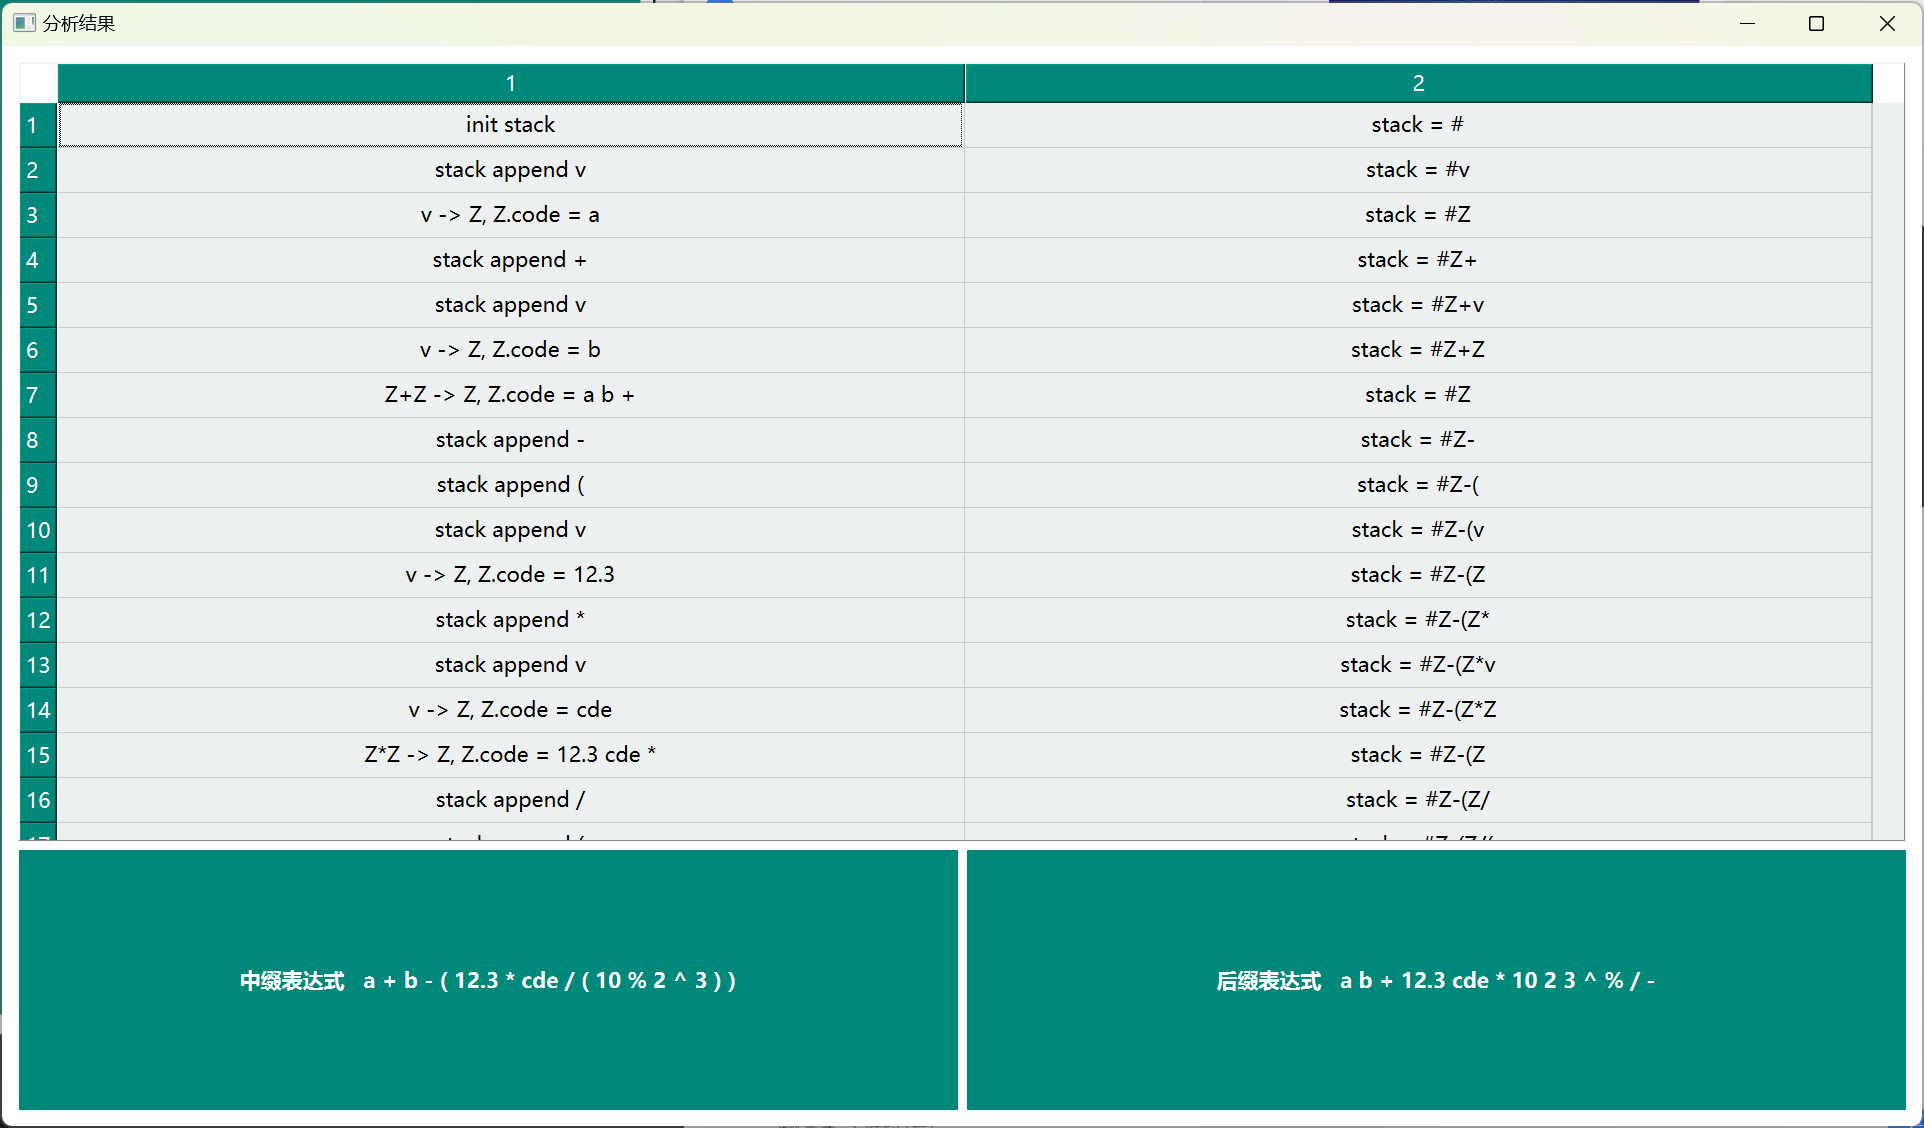
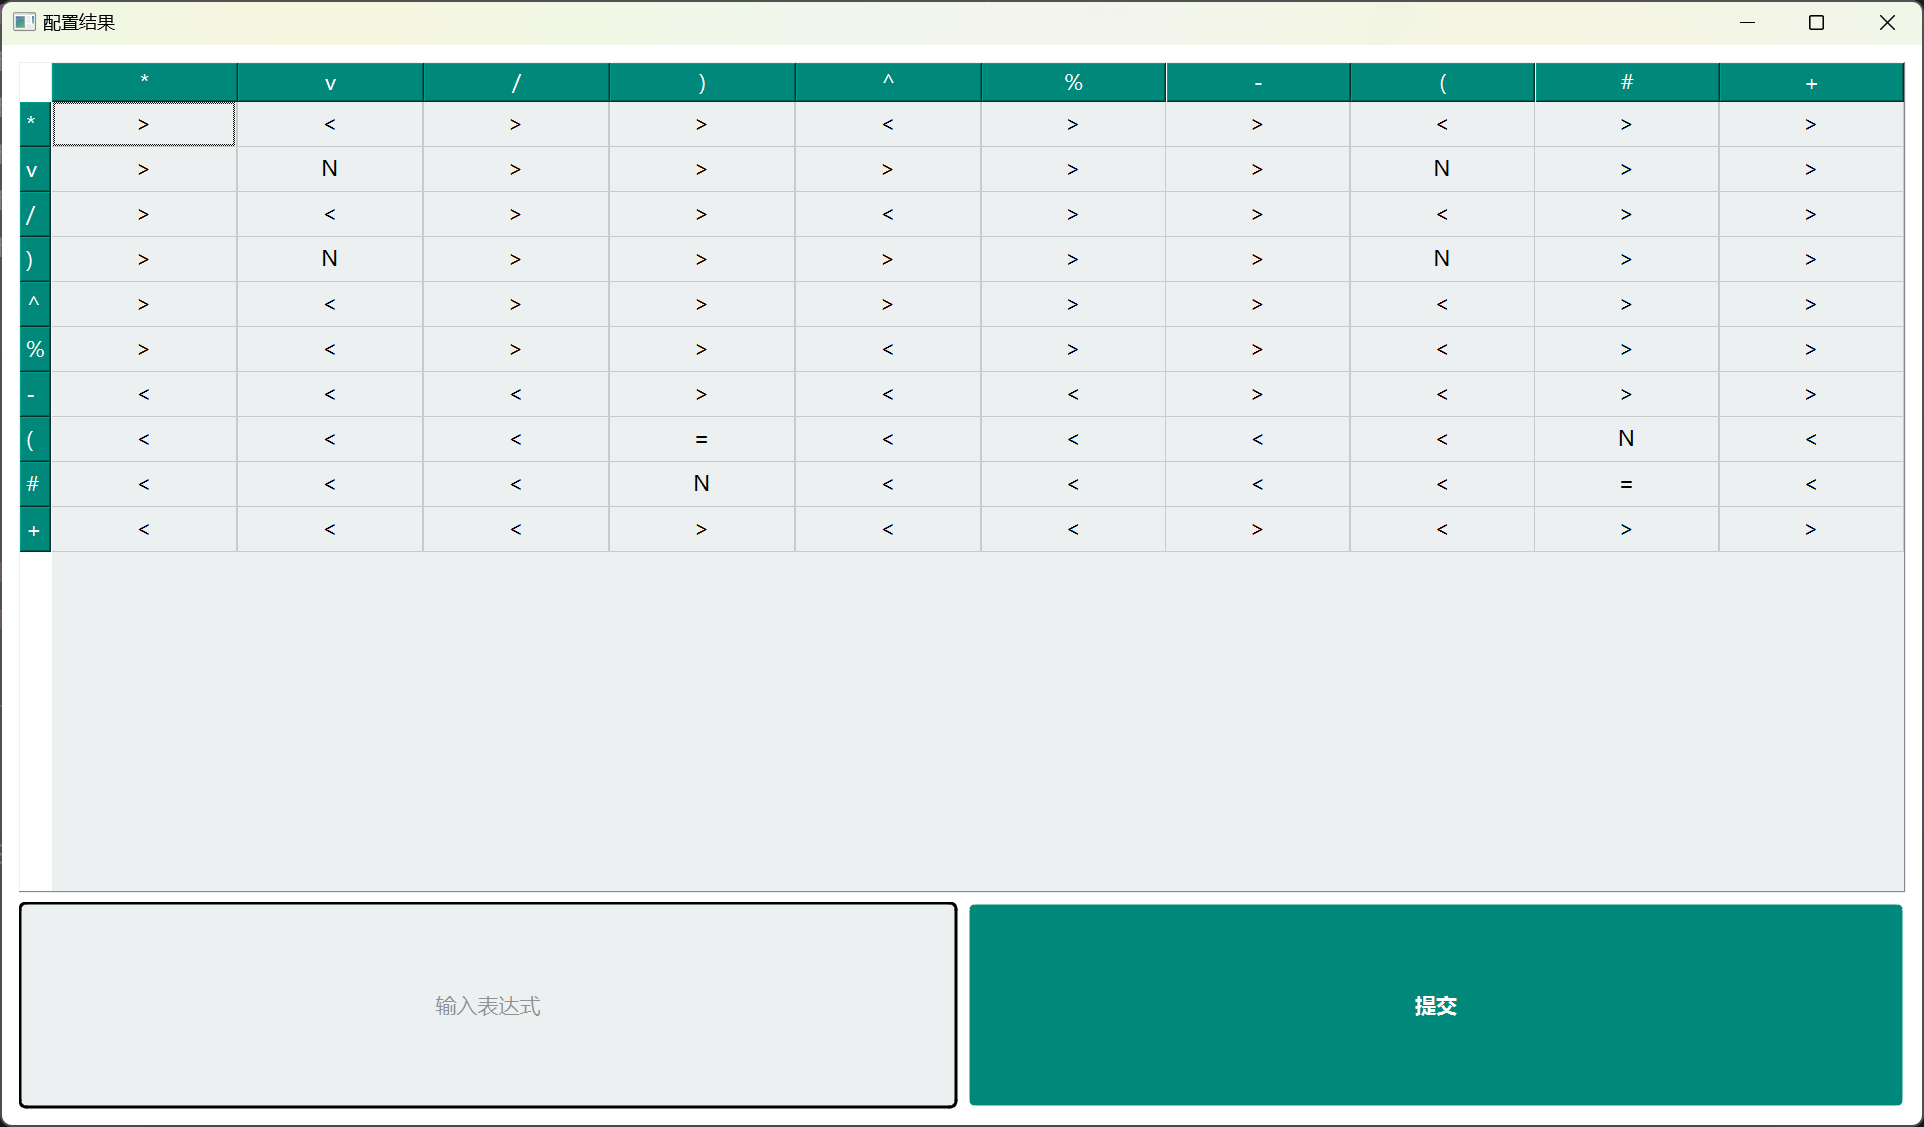
Init

diff --git a/InfixToPostfix/ui.py b/InfixToPostfix/ui.py
@@ -5,76 +5,153 @@ from PyQt6.QtWidgets import QWidget, QGridLayout, QPushButton, QLineEdit, QFileD
 
 from InfixToPostfix.infix_to_postfix import InfixToPostfix
 
+STYLE_QSS_PATH = os.path.join(os.path.dirname(__file__), "data/style.qss")
+
 
 class MainWindow(QWidget):
-    STYLE_QSS_PATH = os.path.join(os.path.dirname(__file__), "data/style.qss")
 
     def __init__(self):
+
         super().__init__()
+
         self.setWindowTitle("后缀表达式生成器")
-        self.setStyleSheet(open(MainWindow.STYLE_QSS_PATH).read())
+        self.setStyleSheet(open(STYLE_QSS_PATH).read())
         self.resize(1280, 720)
         self.conf = ""
+
         self.file_chooser = QPushButton("选取配置文件")
         self.file_chooser.setSizePolicy(QtWidgets.QSizePolicy.Policy.Expanding, QtWidgets.QSizePolicy.Policy.Expanding)
-        self.expression = QLineEdit()
-        self.expression.setPlaceholderText("输入表达式")
-        self.expression.setAlignment(QtCore.Qt.AlignmentFlag.AlignCenter)
-        self.expression.setSizePolicy(QtWidgets.QSizePolicy.Policy.Expanding, QtWidgets.QSizePolicy.Policy.Expanding)
-        self.data_process = QPushButton("提交")
-        self.data_process.setSizePolicy(QtWidgets.QSizePolicy.Policy.Expanding, QtWidgets.QSizePolicy.Policy.Expanding)
-        self.child_window = QWidget()
-        self.child_window.setStyleSheet(open(MainWindow.STYLE_QSS_PATH).read())
-        self.child_window.setWindowTitle("分析结果")
-        self.child_window.resize(1280, 720)
+        self.file_chooser.clicked.connect(self.file_chooser_connect)
+
+        self.conf_process = QPushButton("分析")
+        self.conf_process.setSizePolicy(QtWidgets.QSizePolicy.Policy.Expanding, QtWidgets.QSizePolicy.Policy.Expanding)
+        self.conf_process.clicked.connect(self.conf_process_connect)
+
         self.init_layout()
+
+        # 配置 conf_window 和 result_window
+        self.conf_window = self.init_conf_window()
+        self.result_window = self.init_result_window()
+
+        self.data = InfixToPostfix()
+
         self.show()
 
     def init_layout(self):
-        def file_chooser_connect():
-            self.conf = QFileDialog().getOpenFileName(self, "选取配置文件", "./", "All Files (*)")[0]
-            self.file_chooser.setText(self.conf)
-
-        def data_process_connect():
-            data = InfixToPostfix() if self.conf == "" else InfixToPostfix(self.conf)
-            words, actions, states, result = data.analyze(self.expression.text())
-
-            child_layout = QGridLayout()
-
-            analyze_result = QTableWidget(len(actions), 2)
-            analyze_result.setVerticalScrollBarPolicy(QtCore.Qt.ScrollBarPolicy.ScrollBarAlwaysOff)
-            analyze_result.setHorizontalScrollBarPolicy(QtCore.Qt.ScrollBarPolicy.ScrollBarAlwaysOff)
-            analyze_result.setEditTriggers(QtWidgets.QAbstractItemView.EditTrigger.NoEditTriggers)
-            for i, action, state in zip(range(len(actions)), actions, states):
-                item_0 = QtWidgets.QTableWidgetItem(action)
-                item_1 = QtWidgets.QTableWidgetItem(state)
-                item_0.setTextAlignment(QtCore.Qt.AlignmentFlag.AlignCenter)
-                item_1.setTextAlignment(QtCore.Qt.AlignmentFlag.AlignCenter)
-                analyze_result.setItem(i, 0, item_0)
-                analyze_result.setItem(i, 1, item_1)
-            analyze_result.setColumnWidth(0, 605)
-            analyze_result.setColumnWidth(1, 605)
-
-            raw = QLabel(f"中缀表达式   {' '.join([word[1] for word in words])}")
-            raw.setAlignment(QtCore.Qt.AlignmentFlag.AlignCenter)
-
-            result = QLabel(f"后缀表达式   {' '.join(result)}")
-            result.setAlignment(QtCore.Qt.AlignmentFlag.AlignCenter)
-
-            child_layout.addWidget(analyze_result, 0, 0, 3, 2)
-            child_layout.addWidget(raw, 3, 0, 1, 1)
-            child_layout.addWidget(result, 3, 1, 1, 1)
-
-            self.child_window.setLayout(child_layout)
-            self.child_window.show()
 
         grid = QGridLayout()
 
-        self.file_chooser.clicked.connect(file_chooser_connect)
-        self.data_process.clicked.connect(data_process_connect)
+        grid.addWidget(self.file_chooser, 0, 0, 1, 1)
+        grid.addWidget(self.conf_process, 0, 1, 1, 1)
 
-        grid.addWidget(self.file_chooser, 0, 0, 2, 1)
-        grid.addWidget(self.expression, 0, 1, 1, 1)
-        grid.addWidget(self.data_process, 1, 1, 1, 1)
+        self.setLayout(grid)
 
+    def init_conf_window(self):
+        conf_result = QTableWidget()
+        conf_result.setVerticalScrollBarPolicy(QtCore.Qt.ScrollBarPolicy.ScrollBarAlwaysOff)
+        conf_result.setHorizontalScrollBarPolicy(QtCore.Qt.ScrollBarPolicy.ScrollBarAlwaysOff)
+        conf_result.setEditTriggers(QtWidgets.QAbstractItemView.EditTrigger.NoEditTriggers)
+        conf_result.horizontalHeader().setSectionResizeMode(QtWidgets.QHeaderView.ResizeMode.Stretch)
+
+        expression = QLineEdit()
+        expression.setPlaceholderText("输入表达式")
+        expression.setAlignment(QtCore.Qt.AlignmentFlag.AlignCenter)
+        expression.setSizePolicy(QtWidgets.QSizePolicy.Policy.Expanding, QtWidgets.QSizePolicy.Policy.Expanding)
+
+        analyze_process = QPushButton("提交")
+        analyze_process.clicked.connect(lambda: self.analyze_process_connect(expression.text()))
+        analyze_process.setSizePolicy(QtWidgets.QSizePolicy.Policy.Expanding, QtWidgets.QSizePolicy.Policy.Expanding)
+
+        return ChildWindow("配置结果", conf_result, expression, analyze_process)
+
+    def init_result_window(self):
+        analyze_result = QTableWidget()
+        analyze_result.setVerticalScrollBarPolicy(QtCore.Qt.ScrollBarPolicy.ScrollBarAlwaysOff)
+        analyze_result.setHorizontalScrollBarPolicy(QtCore.Qt.ScrollBarPolicy.ScrollBarAlwaysOff)
+        analyze_result.setEditTriggers(QtWidgets.QAbstractItemView.EditTrigger.NoEditTriggers)
+        analyze_result.horizontalHeader().setSectionResizeMode(QtWidgets.QHeaderView.ResizeMode.Stretch)
+
+        raw = QLabel(f"中缀表达式")
+        raw.setAlignment(QtCore.Qt.AlignmentFlag.AlignCenter)
+        raw.setSizePolicy(QtWidgets.QSizePolicy.Policy.Expanding, QtWidgets.QSizePolicy.Policy.Expanding)
+
+        now = QLabel(f"后缀表达式")
+        now.setAlignment(QtCore.Qt.AlignmentFlag.AlignCenter)
+        now.setSizePolicy(QtWidgets.QSizePolicy.Policy.Expanding, QtWidgets.QSizePolicy.Policy.Expanding)
+
+        return ChildWindow("分析结果", analyze_result, raw, now)
+
+    def file_chooser_connect(self):
+        self.conf = QFileDialog().getOpenFileName(self, "选取配置文件", "./", "All Files (*)")[0]
+        self.file_chooser.setText(self.conf)
+
+    def conf_process_connect(self):
+        self.data = InfixToPostfix() if self.conf == "" else InfixToPostfix(self.conf)
+        priority_table = self.data.priority_table
+
+        # 更新 conf_window
+        length = len(priority_table.keys())
+        self.conf_window.widget1.setRowCount(length)
+        self.conf_window.widget1.setColumnCount(length)
+        row_headers = list(priority_table.keys())
+        column_headers = list(priority_table[row_headers[0]].keys())
+        self.conf_window.widget1.setVerticalHeaderLabels(row_headers)
+        self.conf_window.widget1.setHorizontalHeaderLabels(column_headers)
+        conf_result = self.conf_window.widget1
+        conf_result.setSizePolicy(QtWidgets.QSizePolicy.Policy.Expanding, QtWidgets.QSizePolicy.Policy.Expanding)
+        conf_result.setVerticalScrollBarPolicy(QtCore.Qt.ScrollBarPolicy.ScrollBarAlwaysOff)
+        conf_result.setHorizontalScrollBarPolicy(QtCore.Qt.ScrollBarPolicy.ScrollBarAlwaysOff)
+        conf_result.setEditTriggers(QtWidgets.QAbstractItemView.EditTrigger.NoEditTriggers)
+        for i, key_left in enumerate(priority_table.keys()):
+            for j, key_right in enumerate(priority_table[key_left].keys()):
+                item = QtWidgets.QTableWidgetItem(priority_table[key_left][key_right])
+                item.setTextAlignment(QtCore.Qt.AlignmentFlag.AlignCenter)
+                conf_result.setItem(i, j, item)
+
+        self.conf_window.widget2.setText("")
+        self.conf_window.show()
+
+    def analyze_process_connect(self, expression):
+        result, words, actions, stack_states, words_states = self.data.analyze(expression)
+
+        # 更新 result_window
+        self.result_window.widget1.setRowCount(len(actions))
+        self.result_window.widget1.setColumnCount(3)
+        analyze_result = self.result_window.widget1
+        for i, action, stack_state, words_state in zip(range(len(actions)), actions, stack_states, words_states):
+            item0, item1, item2 = QtWidgets.QTableWidgetItem(action), QtWidgets.QTableWidgetItem(stack_state), QtWidgets.QTableWidgetItem(words_state)
+            item0.setTextAlignment(QtCore.Qt.AlignmentFlag.AlignCenter)
+            item1.setTextAlignment(QtCore.Qt.AlignmentFlag.AlignCenter)
+            item2.setTextAlignment(QtCore.Qt.AlignmentFlag.AlignCenter)
+            analyze_result.setItem(i, 0, item0)
+            analyze_result.setItem(i, 1, item1)
+            analyze_result.setItem(i, 2, item2)
+
+        self.result_window.widget2.setText(f"中缀表达式   {' '.join([word[1] for word in words])}")
+        self.result_window.widget3.setText(f"后缀表达式   {' '.join(result)}")
+
+        self.result_window.show()
+
+
+class ChildWindow(QWidget):
+
+    def __init__(self, title, widget1, widget2, widget3):
+        super().__init__()
+        self.setStyleSheet(open(STYLE_QSS_PATH).read())
+        self.setWindowTitle(title)
+        self.resize(1280, 720)
+        self.widget1 = widget1
+        self.widget2 = widget2
+        self.widget3 = widget3
+        self.init_layout()
+
+    def init_layout(self):
+        grid = QGridLayout()
+        grid.addWidget(self.widget1, 0, 0, 4, 2)
+        grid.addWidget(self.widget2, 4, 0)
+        grid.addWidget(self.widget3, 4, 1)
+        for i in range(grid.rowCount()):
+            grid.setRowStretch(i, 1)
+        for i in range(grid.columnCount()):
+            grid.setRowStretch(i, 1)
         self.setLayout(grid)

diff --git a/InfixToPostfix/infix_to_postfix.py b/InfixToPostfix/infix_to_postfix.py
@@ -25,7 +25,7 @@ class InfixToPostfix:
         self.non_ters = self.non_ters()
         self.ters = self.ters()
         self.ops = self.ops()
-        self.first_vts, self.follow_vts = self.first_and_follow_vts()
+        self.first_vts, self.follow_vts = self.first_and_last_vts()
         self.priority_table = self.priority_table()
 
     def fixed(self):
@@ -47,32 +47,32 @@ class InfixToPostfix:
     def ops(self):
         return [ter for ter in self.ters if ter != "v"]
 
-    def first_and_follow_vts(self):
+    def first_and_last_vts(self):
         """
-        生成 first_vts 和 follow_vts
+        生成 first_vts 和 last_vts
         """
 
-        def first_or_follow_vt(non_ter, finished, vt_dict, pattern):
-            if non_ter not in finished:
+        def first_or_last_vt(non_ter, waited, vt_dict, pattern):
+            if non_ter not in waited:
+                waited.add(non_ter)
                 for candidate in self.grammar_fixed[non_ter]:
                     tmp = candidate[0] if pattern == "first" else candidate[-1]
                     if tmp in self.ters:
                         vt_dict[non_ter].add(tmp)
                     elif tmp in self.non_ters:
-                        if tmp != non_ter:
-                            first_or_follow_vt(tmp, finished, vt_dict, pattern)
+                        if tmp not in waited:
+                            first_or_last_vt(tmp, waited, vt_dict, pattern)
                             vt_dict[non_ter].update(vt_dict[tmp])
                         if (pattern == "first") and (len(candidate) > 1) and (candidate[1] in self.ters):
-                            vt_dict[non_ter].update({candidate[1]})
-                        elif (pattern == "follow") and (len(candidate) > 1) and (candidate[-2] in self.ters):
-                            vt_dict[non_ter].update({candidate[-2]})
-                finished.add(non_ter)
+                            vt_dict[non_ter].add(candidate[1])
+                        elif (pattern == "last") and (len(candidate) > 1) and (candidate[-2] in self.ters):
+                            vt_dict[non_ter].add(candidate[-2])
 
-        first_vts, follow_vts = {non_ter: set() for non_ter in self.non_ters}, {non_ter: set() for non_ter in self.non_ters}
+        first_vts, last_vts = {non_ter: set() for non_ter in self.non_ters}, {non_ter: set() for non_ter in self.non_ters}
         for non_ter in self.non_ters:
-            first_or_follow_vt(non_ter, set(), first_vts, "first")
-            first_or_follow_vt(non_ter, set(), follow_vts, "follow")
-        return first_vts, follow_vts
+            first_or_last_vt(non_ter, set(), first_vts, "first")
+            first_or_last_vt(non_ter, set(), last_vts, "last")
+        return first_vts, last_vts
 
     def priority_table(self):
         """
@@ -131,26 +131,26 @@ class InfixToPostfix:
                     index = end
             return expression_split
 
-        stack = [("#", ["#"])]
-        words = split(expression)
-        words.append(("#", "#"))
-        actions, states = ["init stack"], ["stack = #"]
+        actions, stack, words, stack_states = ["init stack"], [("#", ["#"])], split(expression) + [("#", "#")], ["#"]
+        words_states = ["".join([word[1] for word in words])]
 
-        for word in words:
-            i = len(stack) - 1 if stack[len(stack) - 1][0] in self.ters else len(stack) - 2
+        i = 0
+        while i < len(words):
+            word = words[i]
+            j = len(stack) - 1 if stack[len(stack) - 1][0] in self.ters else len(stack) - 2
             while True:
-                priority = self.priority_table[stack[i][0]][word[0]]
+                priority = self.priority_table[stack[j][0]][word[0]]
                 if (priority == "<") or (priority == "="):
                     break
                 elif priority == ">":
                     while True:
-                        right = stack[i][0]
-                        i = i - 1 if stack[i - 1][0] in self.ters else i - 2
-                        left = stack[i][0]
+                        right = stack[j][0]
+                        j = j - 1 if stack[j - 1][0] in self.ters else j - 2
+                        left = stack[j][0]
                         if self.priority_table[left][right] == "<":
                             break
                     # 规约并翻译
-                    tmp = stack[i + 1:]
+                    tmp = stack[j + 1:]
                     if (tmp[0][0] == "Z") and (tmp[1][0] in self.ops) and (tmp[2][0] == "Z"):
                         a = ("Z", [*tmp[0][1], *tmp[2][1], tmp[1][1]])
                     elif (tmp[0][0] == "(") and (tmp[1][0] == "Z") and (tmp[2][0] == ")"):
@@ -159,13 +159,16 @@ class InfixToPostfix:
                         a = ("Z", [tmp[0][1]])
                     else:
                         actions.append("无法规约")
-                        return words, actions, states, None
-                    stack = stack[:i + 1] + [a]
-                    actions.append(f"{''.join([ele[0] for ele in tmp])} -> Z, Z.code = {' '.join(a[1])}")
-                    states.append(f"stack = {''.join([ele[0] for ele in stack])}")
-            priority = self.priority_table[stack[i][0]][word[0]]
+                        return words, actions, stack_states, None
+                    stack = stack[:j + 1] + [a]
+                    actions.append(f"{stack[j][0]} > {word[0]}, {''.join([ele[0] for ele in tmp])} -> Z, Z.code = {' '.join(a[1])}")
+                    stack_states.append(f"{''.join([ele[0] for ele in stack])}")
+                    words_states.append("".join([word[1] for word in words[i:]]))
+            priority = self.priority_table[stack[j][0]][word[0]]
             if (priority == "<") or (priority == "="):
                 stack.append(word)
-                actions.append(f"stack append {word[0]}")
-                states.append(f"stack = {''.join([ele[0] for ele in stack])}")
-        return words[:-1], actions, states, stack[1][1]
+                actions.append(f"{stack[j][0]} <= {word[0]}, stack append {word[1]}")
+                stack_states.append(f"{''.join([ele[0] for ele in stack])}")
+                words_states.append("".join([word[1] for word in words[i + 1:]]))
+            i += 1
+        return stack[1][1], words[:-1], actions, stack_states, words_states

diff --git a/setup.py b/setup.py
@@ -2,7 +2,7 @@ from setuptools import setup, find_packages
 
 setup(
     name="InfixToPostfix",
-    version="1.0.8",
+    version="1.1.0",
     author="RoiexLee",
     author_email="luoyixaun1029@gmail.com",
     description="A python module converts infix expressions to postfix expressions and includes a visual interface.",

diff --git a/README.md b/README.md
@@ -42,3 +42,5 @@ sys.exit(app.exec())
 ![visual_interface_1.png](https://github.com/RoiexLee/InfixToPostfix/blob/main/resource/visual_interface_1.png?raw=true)
 
 ![visual_interface_2.png](https://github.com/RoiexLee/InfixToPostfix/blob/main/resource/visual_interface_2.png?raw=true)
+
+![visual_interface_3.png](https://github.com/RoiexLee/InfixToPostfix/blob/main/resource/visual_interface_3.png?raw=true)
